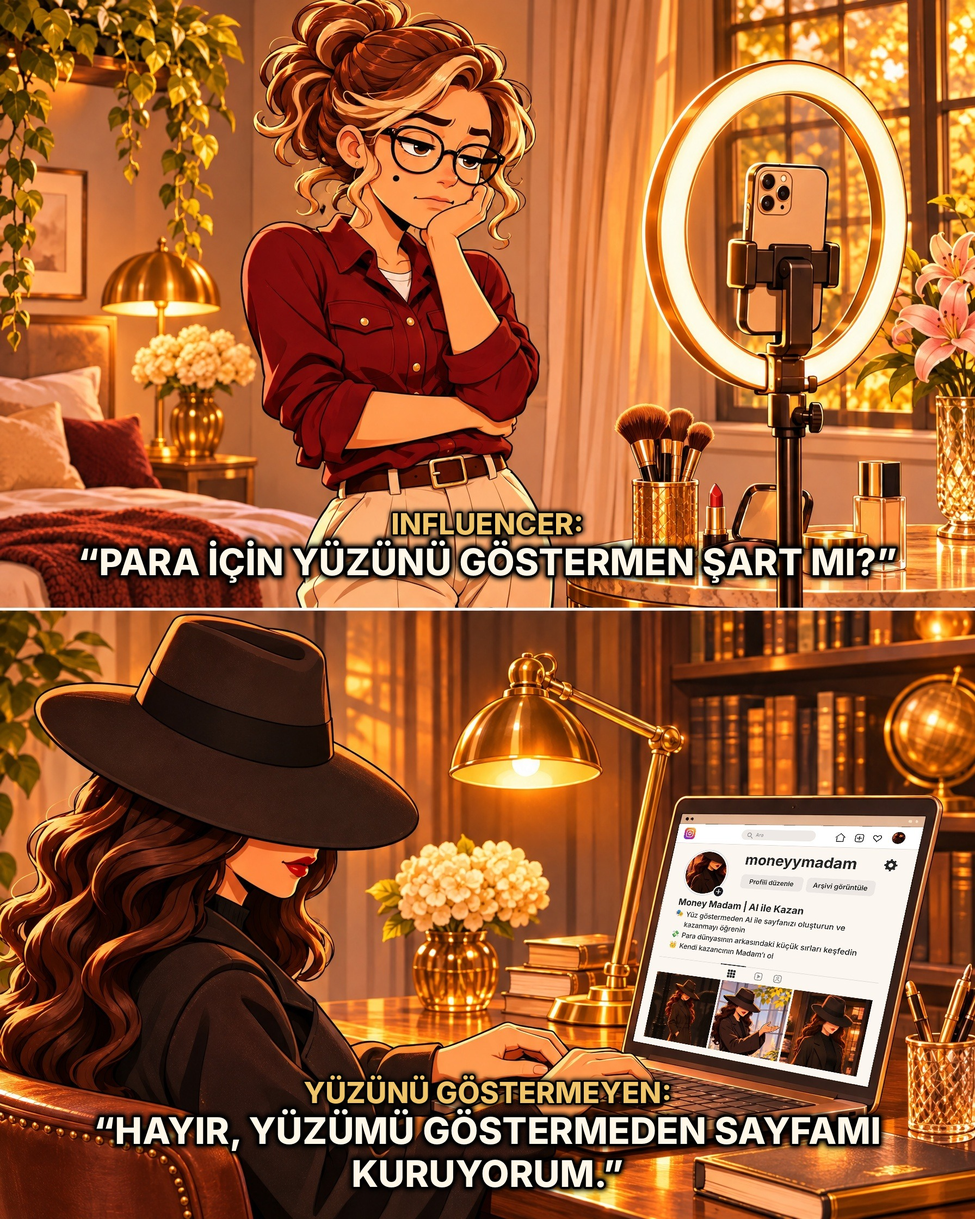
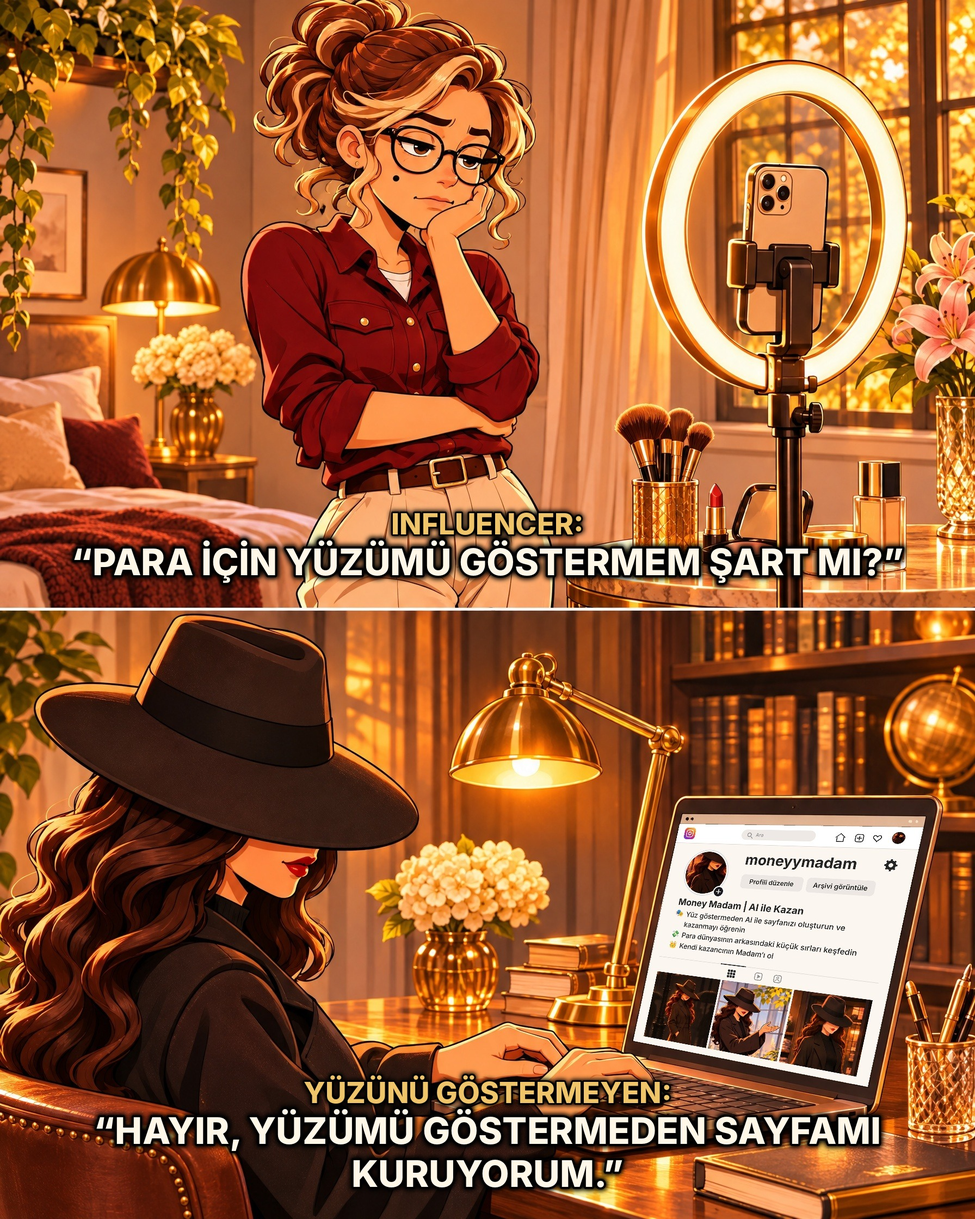
Post6 sayfa 1: üst metin 'yüzümü göstermem' olarak düzeltildi
Claude-Session: https://claude.ai/code/session_01DJnELUg2datGduMzoawH2g

Changed region(s): [[0.0625, 0.4375, 0.4375, 0.5], [0.6875, 0.4375, 0.9375, 0.5]]

diff --git a/dark-money/tools/post6_yazi.py b/dark-money/tools/post6_yazi.py
@@ -11,7 +11,7 @@ OUT="/home/user/Diyetisyen-Web/dark-money/images/post6/yazili"
 CREAM=(255,247,232); GOLD=(240,196,104)
 TOP="Influencer"; BOT="Yüzünü göstermeyen"
 def up(s): return s.replace("i","İ").replace("ı","I").upper()
-T={1:("“Para için yüzünü göstermen şart mı?”","“Hayır, yüzümü göstermeden sayfamı kuruyorum.”"),
+T={1:("“Para için yüzümü göstermem şart mı?”","“Hayır, yüzümü göstermeden sayfamı kuruyorum.”"),
    2:("“Kameraya çıkacağım, önce saçım!”","“Ben görünmeyeceğim, önce fikrim.”"),
    3:("“Yüzüm yorgun çıktı, baştan!”","“Karakterimi yapay zekâyla çizdiriyorum.”"),
    5:("“Dışarı çıkıyorum, herkes bana bakıyor.”","“Kimse beni tanımıyor, rahatça dolaşıyorum.”")}
